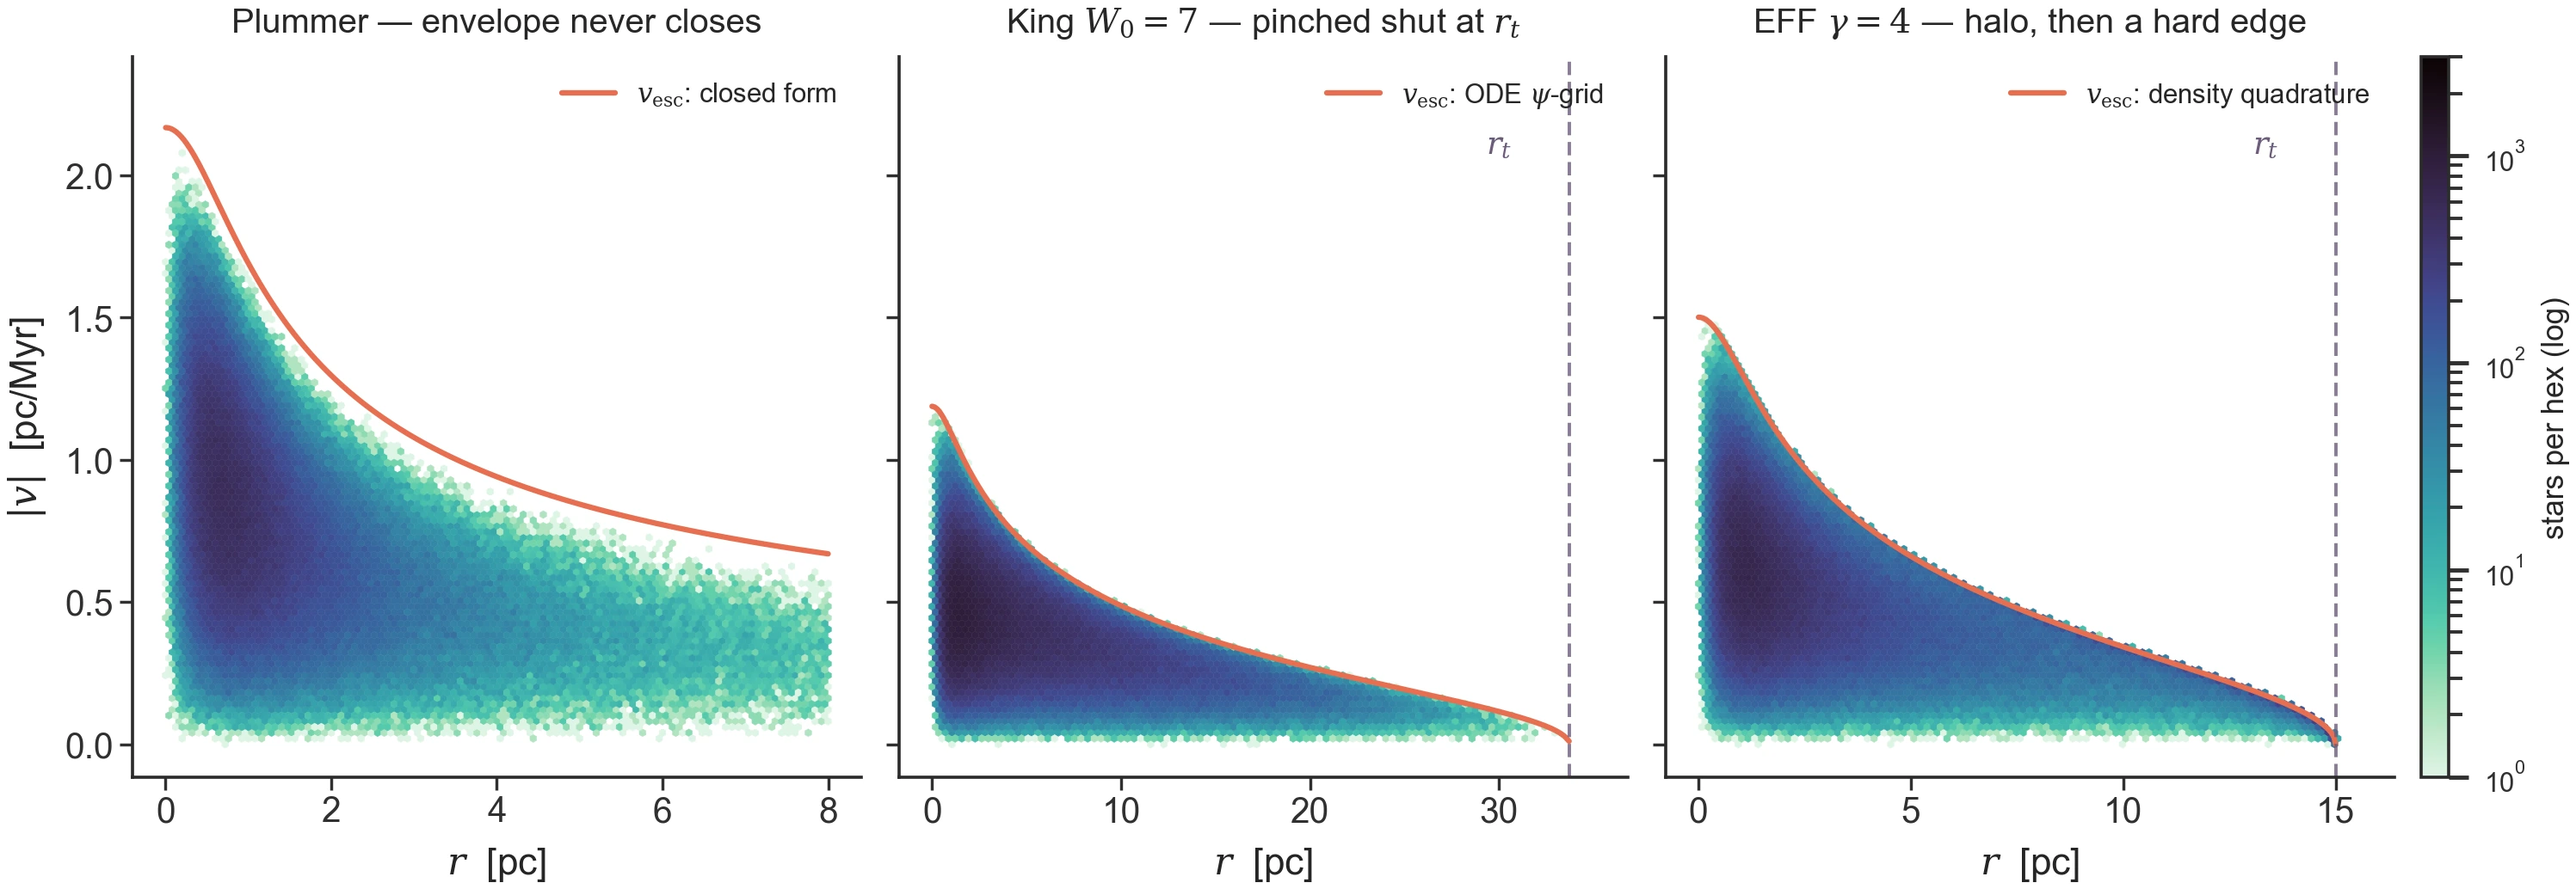
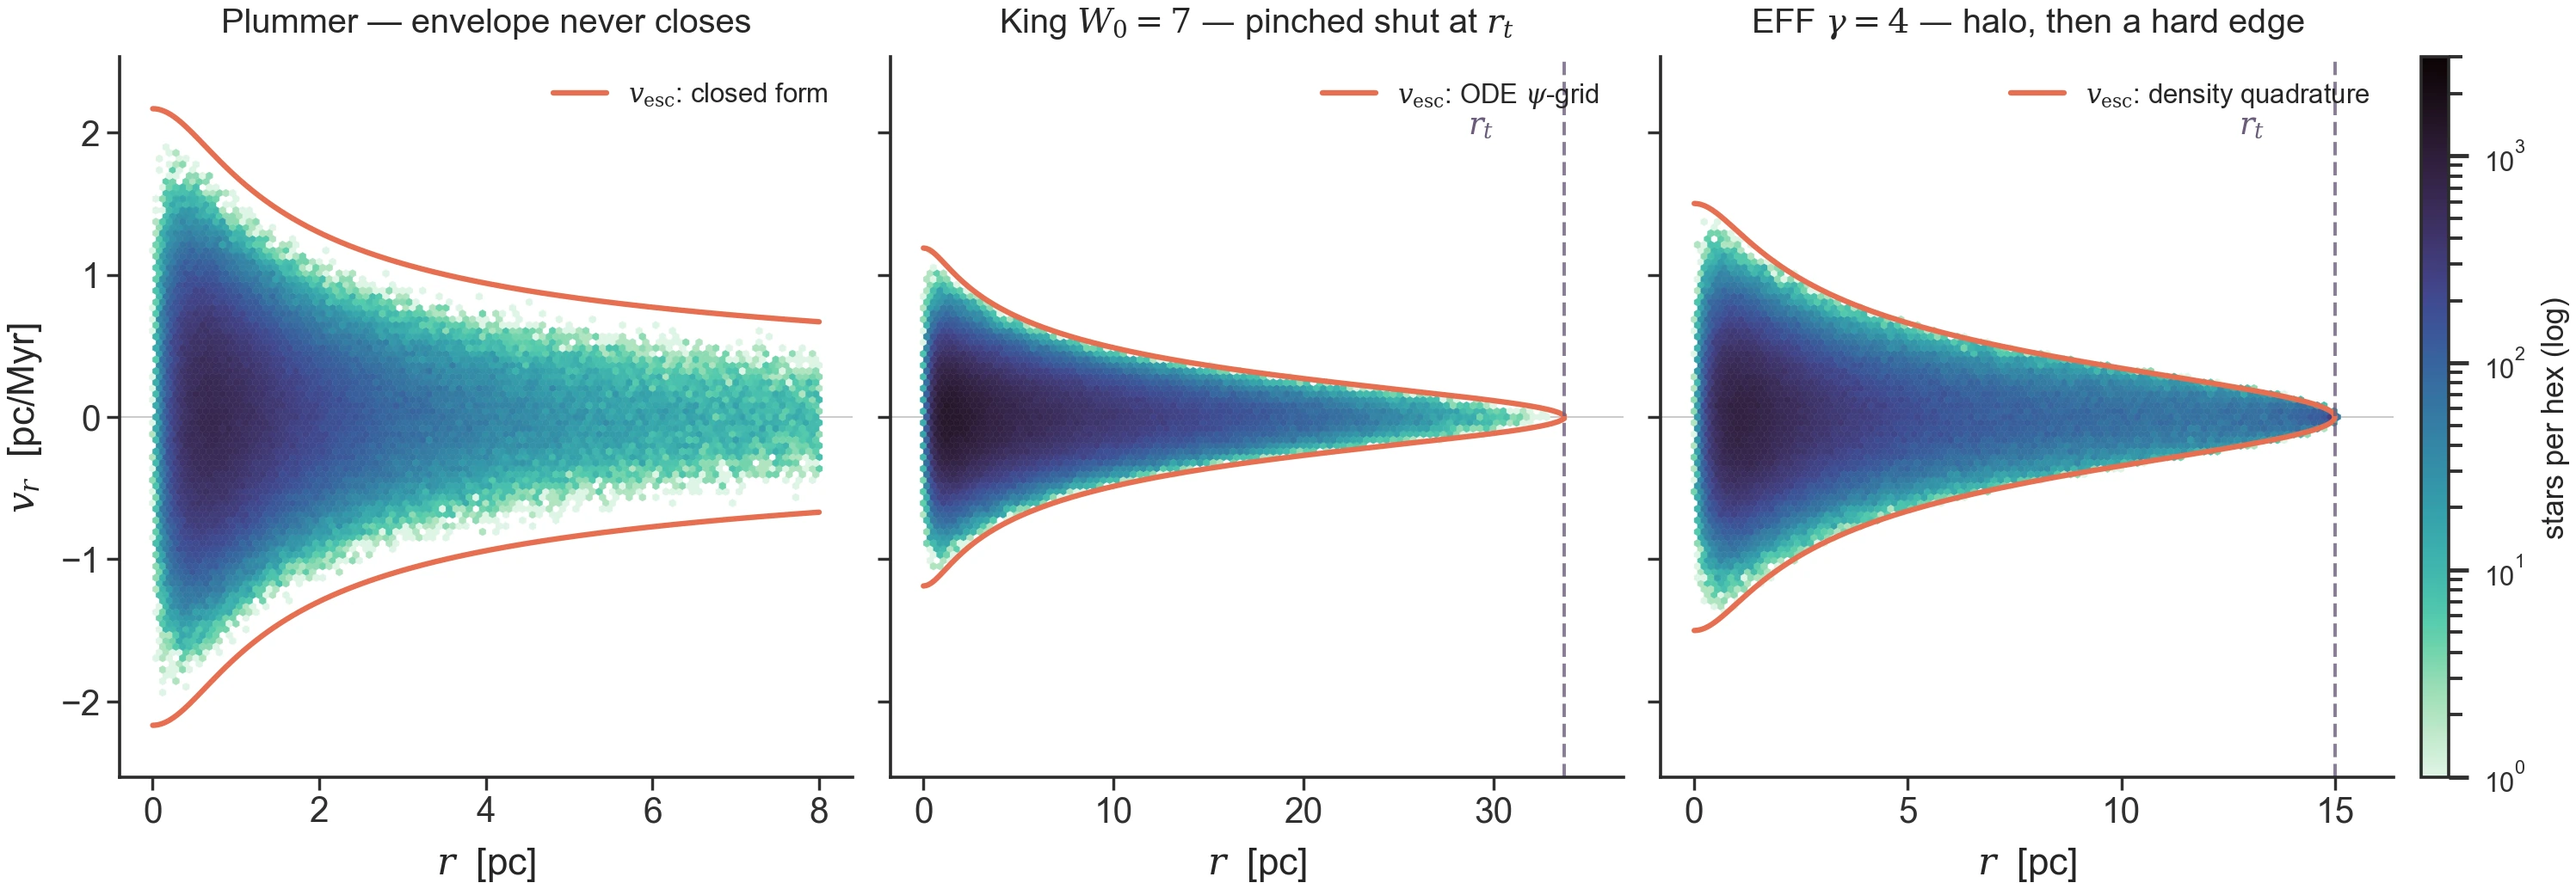
feat(icviz): signed-v_r phase space + binary resolved/unresolved figure (Anna's requests)
F11 updated: |v| -> the classic signed (r, v_r) plane with symmetric
+/- v_esc envelopes — the textbook phase-space lens, pinching shut at r_t
for King/EFF (caption updated to match).

F12 binary-phase-space (laboratory/icviz/binaries_phase.py, seed 21,
4e4 systems/population): 2x2 — EFF young + Moe companions / King W0=7 old +
f_b=0.15 (DM91 periods, thermal e), resolved vs unresolved. Resolved:
binary orbital motion punctures the single-star envelope out to ~1e3 pc/Myr
(symlog axis after autoscale flattened the cluster — self-review); the
measured sigma_1d is 8.4 vs singles 2.2 (EFF) and 7.9 vs 1.5 (King).
Unresolved: Tout-ZAMS flux-weighted blends — punctures GONE, population
looks clean, dispersion still inflated (2.93 vs 2.20; 2.41 vs 1.53) — the
binary-blind mass-bias mechanism, drawn. Layering fix from self-review:
hexbin above scatter so the cluster lens stays readable. Embedded on
imfs/binary.md (the confidently-wrong chapter).

Docs gate PASS; ruff clean.

diff --git a/laboratory/icviz/binaries_phase.py b/laboratory/icviz/binaries_phase.py
@@ -1,0 +1,198 @@
+"""ICViz binary-population phase-space figure.
+
+F12 ``binary-phase-space`` — (r, v_r) phase space of populations WITH
+primordial binaries, resolved vs unresolved, young vs old:
+
+* rows: an EFF young massive cluster (Moe & Di Stefano companions — high
+  mass-dependent multiplicity, short-period massive binaries) and a King
+  old globular (low constant f_b, DM91 periods, thermal eccentricities).
+* columns: RESOLVED (every component star — binary orbital motion punctures
+  the single-star escape envelope) vs UNRESOLVED (each binary photometrically
+  blended: COM position, FLUX-weighted velocity via the Tout ZAMS
+  luminosities — the punctures vanish but the measured dispersion stays
+  silently inflated).
+
+Each panel annotates the measured 1-D dispersion sigma(v_z); the
+singles-only value is the truth reference in the caption.
+"""
+
+from __future__ import annotations
+
+import jax
+import jax.numpy as jnp
+import matplotlib.pyplot as plt
+import numpy as np
+from jaxstro.units import STELLAR
+
+from progenax import (
+    EFFProfile,
+    EFFVelocityDF,
+    KingProfile,
+    KingVelocityDF,
+    Maschberger,
+    Systems,
+    build_binary_cluster,
+)
+from progenax.binaries import (
+    IndependentCompanions,
+    LogNormalPeriod,
+    MoeCompanions,
+    ThermalEccentricity,
+)
+from progenax.imf.binary import ConstantBinaryFraction, FlatMassRatio
+from progenax.stellar import zams_luminosity
+
+from .dfs import _psi_from_density
+from .style import polish_axes, setup_style
+
+SEED = 21
+_G = STELLAR.G
+_N_SYS = 40_000
+
+
+def _signed_vr(pos: np.ndarray, vel: np.ndarray):
+    r = np.linalg.norm(pos, axis=1)
+    v_r = np.einsum("ij,ij->i", vel, pos / r[:, None])
+    return r, v_r
+
+
+def _blend_unresolved(ic) -> tuple[np.ndarray, np.ndarray]:
+    """Photometric blends: per primordial system, COM position and
+    FLUX-weighted velocity (L = Tout ZAMS L(m)). Singles pass through."""
+    pos = np.array(ic.positions)
+    vel = np.array(ic.velocities)
+    m = np.array(ic.masses)
+    sys_id = np.array(ic.primordial_system_id)
+    lum = np.array(zams_luminosity(jnp.asarray(m)))
+
+    order = np.argsort(sys_id, kind="stable")
+    pos, vel, m, lum, sys_id = (
+        pos[order], vel[order], m[order], lum[order], sys_id[order]
+    )
+    uniq, start, counts = np.unique(sys_id, return_index=True, return_counts=True)
+    out_pos = np.empty((len(uniq), 3))
+    out_vel = np.empty((len(uniq), 3))
+    # vectorized pair/single reduction via segment sums
+    w_m = m
+    w_l = lum
+    sum_m = np.add.reduceat(w_m, start)
+    out_pos = np.add.reduceat(pos * w_m[:, None], start) / sum_m[:, None]  # COM
+    sum_l = np.add.reduceat(w_l, start)
+    out_vel = np.add.reduceat(vel * w_l[:, None], start) / sum_l[:, None]  # flux-wtd
+    return out_pos, out_vel
+
+
+def build_binary_phase_space() -> plt.Figure:
+    import seaborn as sns
+    from matplotlib.colors import LogNorm
+
+    setup_style()
+    fig, axes = plt.subplots(
+        2, 2, figsize=(7.6, 5.4), constrained_layout=True, sharey="row"
+    )
+    cmap = sns.color_palette("mako_r", as_cmap=True)
+    hex_norm = LogNorm(vmin=1, vmax=1e3)
+    key = jax.random.PRNGKey(SEED)
+    k_eff, k_king = jax.random.split(key)
+
+    populations = [
+        (
+            "EFF young massive cluster + Moe binaries",
+            EFFProfile(a=1.0, gamma=4.0, r_t=15.0),
+            EFFVelocityDF(a=1.0, gamma=4.0, r_t=15.0),
+            MoeCompanions(),
+            k_eff,
+            15.0,
+        ),
+        (
+            r"King $W_0=7$ old globular + $f_b = 0.15$ binaries",
+            KingProfile.from_W0_rc(W0=7.0, r_c=1.0),
+            KingVelocityDF(W0=7.0, r_c=1.0),
+            IndependentCompanions(
+                binary_fraction=ConstantBinaryFraction(0.15),
+                q_distribution=FlatMassRatio(q_min=0.1),
+                period_distribution=LogNormalPeriod(),
+                eccentricity_distribution=ThermalEccentricity(),
+            ),
+            k_king,
+            None,
+        ),
+    ]
+
+    for row, (title, prof, df, companions, k, r_max_in) in enumerate(populations):
+        ic = build_binary_cluster(
+            prof, df, Maschberger(), companions, Systems(_N_SYS), k, units=STELLAR
+        )
+        M_tot = float(jnp.sum(ic.masses))
+        r_max = float(getattr(prof, "r_t", r_max_in) or r_max_in)
+
+        # single-star escape envelope in THIS population's realized mass
+        r_grid = np.linspace(1e-4, r_max, 6000)
+        psi = _psi_from_density(prof, r_grid, M_tot)
+        env = np.sqrt(2.0 * np.clip(psi, 0.0, None))
+
+        is_pair = np.bincount(np.array(ic.primordial_system_id)) > 1
+        in_binary = is_pair[np.array(ic.primordial_system_id)]
+
+        # --- resolved -----------------------------------------------------
+        ax = axes[row][0]
+        pos, vel = np.array(ic.positions), np.array(ic.velocities)
+        r, v_r = _signed_vr(pos, vel)
+        # scatter UNDER the hexbin: the punctures live outside the hex extent,
+        # so they stay visible while the cluster lens stays readable on top.
+        ax.plot(
+            r[in_binary], v_r[in_binary], ".", ms=1.1, color="#E76F51", alpha=0.22,
+            rasterized=True, zorder=1,
+        )
+        ax.hexbin(
+            r[~in_binary], v_r[~in_binary], gridsize=95, norm=hex_norm, cmap=cmap,
+            mincnt=1, linewidths=0.1, extent=(0.0, r_max, -3.2, 3.2), zorder=2,
+        )
+        ax.plot(r_grid, env, color="#3A3A3A", lw=1.0)
+        ax.plot(r_grid, -env, color="#3A3A3A", lw=1.0)
+        sigma = float(np.std(vel[:, 2]))
+        sigma_single = float(np.std(vel[~in_binary, 2]))
+        ax.text(
+            0.97, 0.06,
+            rf"$\sigma_{{1\mathrm{{d}}}} = {sigma:.2f}$"
+            "\n"
+            rf"(singles: ${sigma_single:.2f}$)",
+            transform=ax.transAxes, ha="right", fontsize=7.0,
+        )
+        ax.set_title(f"resolved — {title}", fontsize=7.9)
+        ax.set_ylabel(r"$v_r$  [pc/Myr]")
+        if row == 1:
+            ax.set_xlabel(r"$r$  [pc]")
+        polish_axes(ax)
+
+        # --- unresolved ----------------------------------------------------
+        ax = axes[row][1]
+        b_pos, b_vel = _blend_unresolved(ic)
+        r_b, v_rb = _signed_vr(b_pos, b_vel)
+        ax.hexbin(
+            r_b, v_rb, gridsize=95, norm=hex_norm, cmap=cmap, mincnt=1,
+            linewidths=0.1, extent=(0.0, r_max, -3.2, 3.2),
+        )
+        ax.plot(r_grid, env, color="#3A3A3A", lw=1.0)
+        ax.plot(r_grid, -env, color="#3A3A3A", lw=1.0)
+        sigma_b = float(np.std(b_vel[:, 2]))
+        ax.text(
+            0.97, 0.06, rf"$\sigma_{{1\mathrm{{d}}}} = {sigma_b:.2f}$",
+            transform=ax.transAxes, ha="right", fontsize=7.0,
+        )
+        ax.set_title("unresolved (flux-weighted blends)", fontsize=7.9)
+        if row == 1:
+            ax.set_xlabel(r"$r$  [pc]")
+        polish_axes(ax)
+
+        for a in axes[row]:
+            a.set_yscale("symlog", linthresh=3.0)
+            a.set_ylim(-1500, 1500)
+            for y in (3.0, -3.0):
+                a.axhline(y, color="#CFCFCF", lw=0.4, ls=(0, (1, 2)), zorder=0)
+
+    # shared legend proxies on the first panel
+    axes[0][0].plot([], [], ".", ms=4, color="#E76F51", label="binary components")
+    axes[0][0].plot([], [], color="#3A3A3A", lw=1.0, label=r"single-star $\pm v_{\rm esc}$")
+    axes[0][0].legend(frameon=False, fontsize=6.4, loc="upper right")
+    return fig

diff --git a/laboratory/icviz/dfs.py b/laboratory/icviz/dfs.py
@@ -392,23 +392,27 @@ def build_phase_space_hexbin() -> plt.Figure:
         key, k_pos, k_vel = jax.random.split(key, 3)
         pos = prof.sample_positions(masses, k_pos)
         vel = df.sample_velocities(pos, masses, k_vel, G=_G)
-        r = np.array(jnp.linalg.norm(pos, axis=1))
-        v = np.array(jnp.linalg.norm(vel, axis=1))
+        pos_np, vel_np = np.array(pos), np.array(vel)
+        r = np.linalg.norm(pos_np, axis=1)
+        # SIGNED radial velocity: the classic (r, v_r) phase-space plane.
+        v_r = np.einsum("ij,ij->i", vel_np, pos_np / r[:, None])
         hb = ax.hexbin(
-            r, v, gridsize=100, norm=hex_norm, cmap=cmap, mincnt=1,
-            linewidths=0.1, extent=(0.0, r_max, 0.0, 2.3),
+            r, v_r, gridsize=100, norm=hex_norm, cmap=cmap, mincnt=1,
+            linewidths=0.1, extent=(0.0, r_max, -2.3, 2.3),
         )
         r_line = np.linspace(1e-3, r_max if r_t is None else r_t, 500)
         ax.plot(r_line, env(r_line), color="#E76F51", lw=1.3, label=env_label)
+        ax.plot(r_line, -env(r_line), color="#E76F51", lw=1.3)
+        ax.axhline(0.0, color="#C9C9C9", lw=0.4, zorder=0)
         if r_t is not None:
             ax.axvline(r_t, color="#6C5B7B", lw=0.8, ls=(0, (4, 2)), alpha=0.8)
-            ax.annotate(r"$r_t$", xy=(r_t, 2.05), xytext=(r_t * 0.87, 2.08),
+            ax.annotate(r"$r_t$", xy=(r_t, 1.95), xytext=(r_t * 0.85, 2.0),
                         fontsize=7.6, color="#6C5B7B")
         ax.set_title(title, fontsize=8.2)
         ax.set_xlabel(r"$r$  [pc]")
         ax.legend(frameon=False, fontsize=6.4, loc="upper right")
         polish_axes(ax)
-    axes[0].set_ylabel(r"$|v|$  [pc/Myr]")
+    axes[0].set_ylabel(r"$v_r$  [pc/Myr]")
 
     cb = fig.colorbar(hb, ax=list(axes), pad=0.012, aspect=26)
     cb.set_label("stars per hex (log)", fontsize=7.2)

diff --git a/laboratory/icviz/registry.py b/laboratory/icviz/registry.py
@@ -2,6 +2,7 @@
 
 from __future__ import annotations
 
+from .binaries_phase import build_binary_phase_space
 from .dfs import SEED as _DF_SEED
 from .dfs import (
     build_beta_anisotropy,
@@ -91,8 +92,17 @@ FIGURES: dict[str, FigureSpec] = {
             stem="phase_space_hexbin",
             page="10-theory/velocity-dfs/index.md",
             seed=13,
-            caption="The DF on the (r, |v|) plane: Plummer's open envelope vs King pinched shut at r_t.",
+            caption="The DF on the (r, v_r) plane: Plummer's open envelope vs King/EFF pinched shut at r_t.",
             tags=("dfs",),
+        ),
+        FigureSpec(
+            name="binary-phase-space",
+            builder=build_binary_phase_space,
+            stem="binary_phase_space",
+            page="10-theory/imfs/binary.md",
+            seed=21,
+            caption="Binaries in phase space, resolved vs unresolved: envelope punctures vs hidden dispersion inflation (EFF young / King old).",
+            tags=("binaries",),
         ),
     ]
 }

diff --git a/docs/website/10-theory/velocity-dfs/index.md b/docs/website/10-theory/velocity-dfs/index.md
@@ -74,14 +74,14 @@ sampled positions+velocities.
 :label: fig-phase-space-hexbin
 :width: 100%
 
-The DF as a density on the $(r, |v|)$ plane ($4\times10^5$ stars per model,
-seed 13), with the analytic escape envelope $v_{\rm esc}(r) = \sqrt{2\Psi(r)}$
-computed three different ways (closed form / ODE $\psi$-grid / direct density
-quadrature). Plummer's envelope never closes — and its stars stop visibly
-*below* it, because $f \propto \mathcal{E}^{7/2}$ vanishes toward the escape
-energy; King hugs its envelope and pinches shut at $r_t$; EFF fills its
-power-law halo out to the hard edge. No star crosses an envelope: bound-ness,
-visually. Regenerate: `python -m laboratory.icviz --only phase-space-hexbin`.
+The DF as a density on the classic $(r, v_r)$ phase-space plane
+($4\times10^5$ stars per model, seed 13), with the analytic escape envelope
+$\pm v_{\rm esc}(r) = \pm\sqrt{2\Psi(r)}$ computed three different ways
+(closed form / ODE $\psi$-grid / direct density quadrature). Plummer's
+envelope never closes — and its stars stop visibly *inside* it, because
+$f \propto \mathcal{E}^{7/2}$ vanishes toward the escape energy; King hugs
+its envelope and pinches shut at $r_t$; EFF fills its power-law halo out to
+the hard edge. No star crosses an envelope: bound-ness, visually. Regenerate: `python -m laboratory.icviz --only phase-space-hexbin`.
 ```
 
 ## When you actually want a non-equilibrium IC

diff --git a/docs/website/10-theory/imfs/binary.md b/docs/website/10-theory/imfs/binary.md
@@ -31,6 +31,24 @@ interval shrinks below the bias and excludes the true slope.
 **You'll get:** the system mass function under the Moe & Di Stefano (2017) statistics, the marginalisation likelihood, and the "confidently wrong" regime where the naive single-star fit excludes the truth at large $N$.
 :::
 
+```{figure} ../figures/binary_phase_space.webp
+:label: fig-binary-phase-space
+:width: 100%
+
+Binaries in $(r, v_r)$ phase space, and why they lie to your dispersion
+(seed 21, $4\times10^4$ systems each; symlog velocity axis). **Left column
+(resolved):** binary orbital motion (coral) punctures the single-star escape
+envelope by up to *two orders of magnitude* — the classic high-velocity
+contaminants. Measured $\sigma_{1\mathrm{d}}$: 8.4 vs a singles-only 2.2
+(EFF + Moe, top) and 7.9 vs 1.5 (King + $f_b = 0.15$, bottom).
+**Right column (unresolved):** each binary photometrically blended (COM
+position, Tout-ZAMS flux-weighted velocity) — the punctures vanish, the
+population *looks* bound and clean, but the measured dispersion is still
+silently inflated (2.93 vs 2.20; 2.41 vs 1.53). That hidden pedestal is
+exactly the mechanism behind the binary-blind mass bias demonstrated on this
+page. Regenerate: `python -m laboratory.icviz --only binary-phase-space`.
+```
+
 ## The Maschberger (2013) functional form
 
 progenax uses the {cite:t}`Maschberger2013` "L3 distribution" as the
